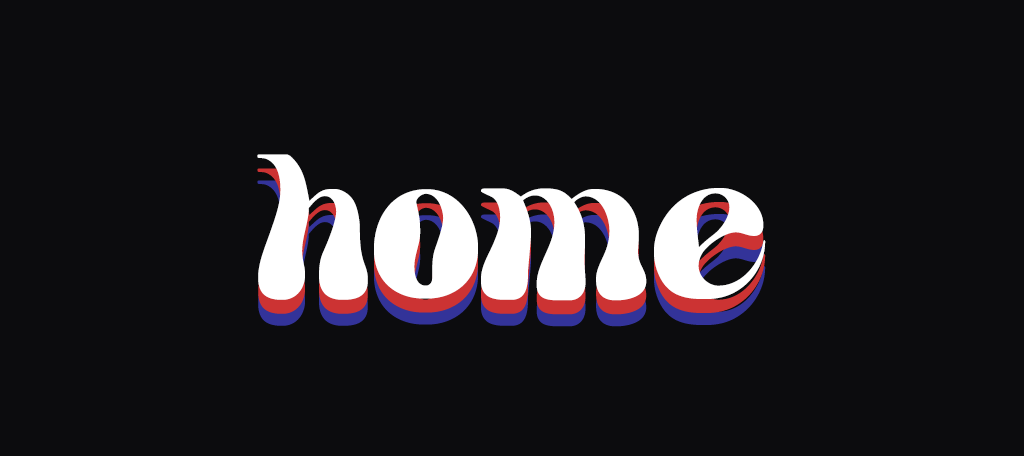
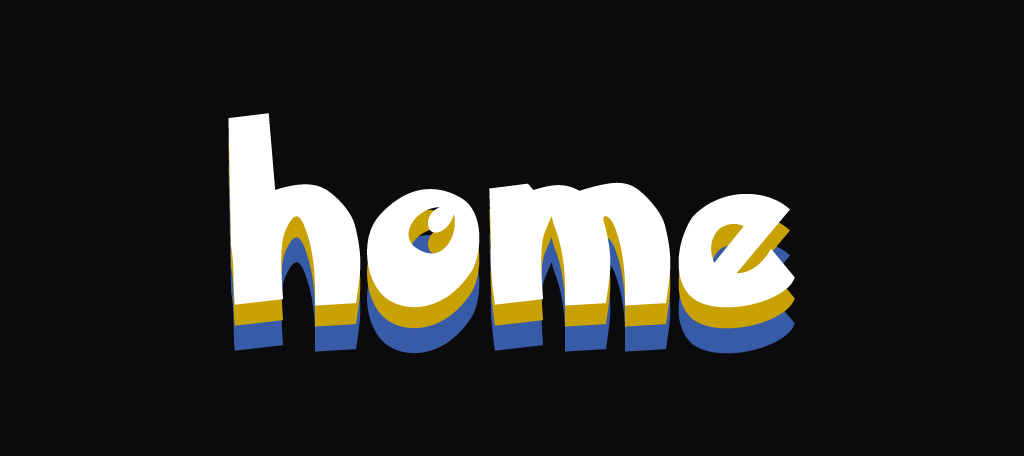
cards

Changed region(s): [[0.2188, 0.2456, 0.7812, 0.7982]]

diff --git a/cards.html b/cards.html
@@ -21,7 +21,7 @@
                                     <h2 style="font-size:1.125rem;"><a href="/games/whalinggame">TBD 2025</a></h2>
                                   </div>
                             </td>
-                            <td class="headerpic"><h2><a href="/"><img id="header-logo" src="/images/general/home button.png"></a></h2></td>
+                            <td class="headerpic"><h2><a href="/"><img id="header-logo" src="/images/pkmn/home pkmn button.png"></a></h2></td>
                             <td><h2><a href="/ts4cc">ts4 cc</a></h2></td>
                             <td class="dropdown"><h2 class="dropbtn2">more...</h2>
                               <div class="dropdown-content">

diff --git a/js/headerscrollpkmn.js b/js/headerscrollpkmn.js
@@ -1,6 +1,6 @@
 let mybutton = document.getElementById("toTop");
-var initialSrc = "/images/general/home button.png";
-var scrollSrc = "/images/general/header logo.png";
+var initialSrc = "/images/pkmn/home pkmn button.png";
+var scrollSrc = "/images/general/header pkmn logo.png";
 
 window.onscroll = function() {scrollFunction()};
 
